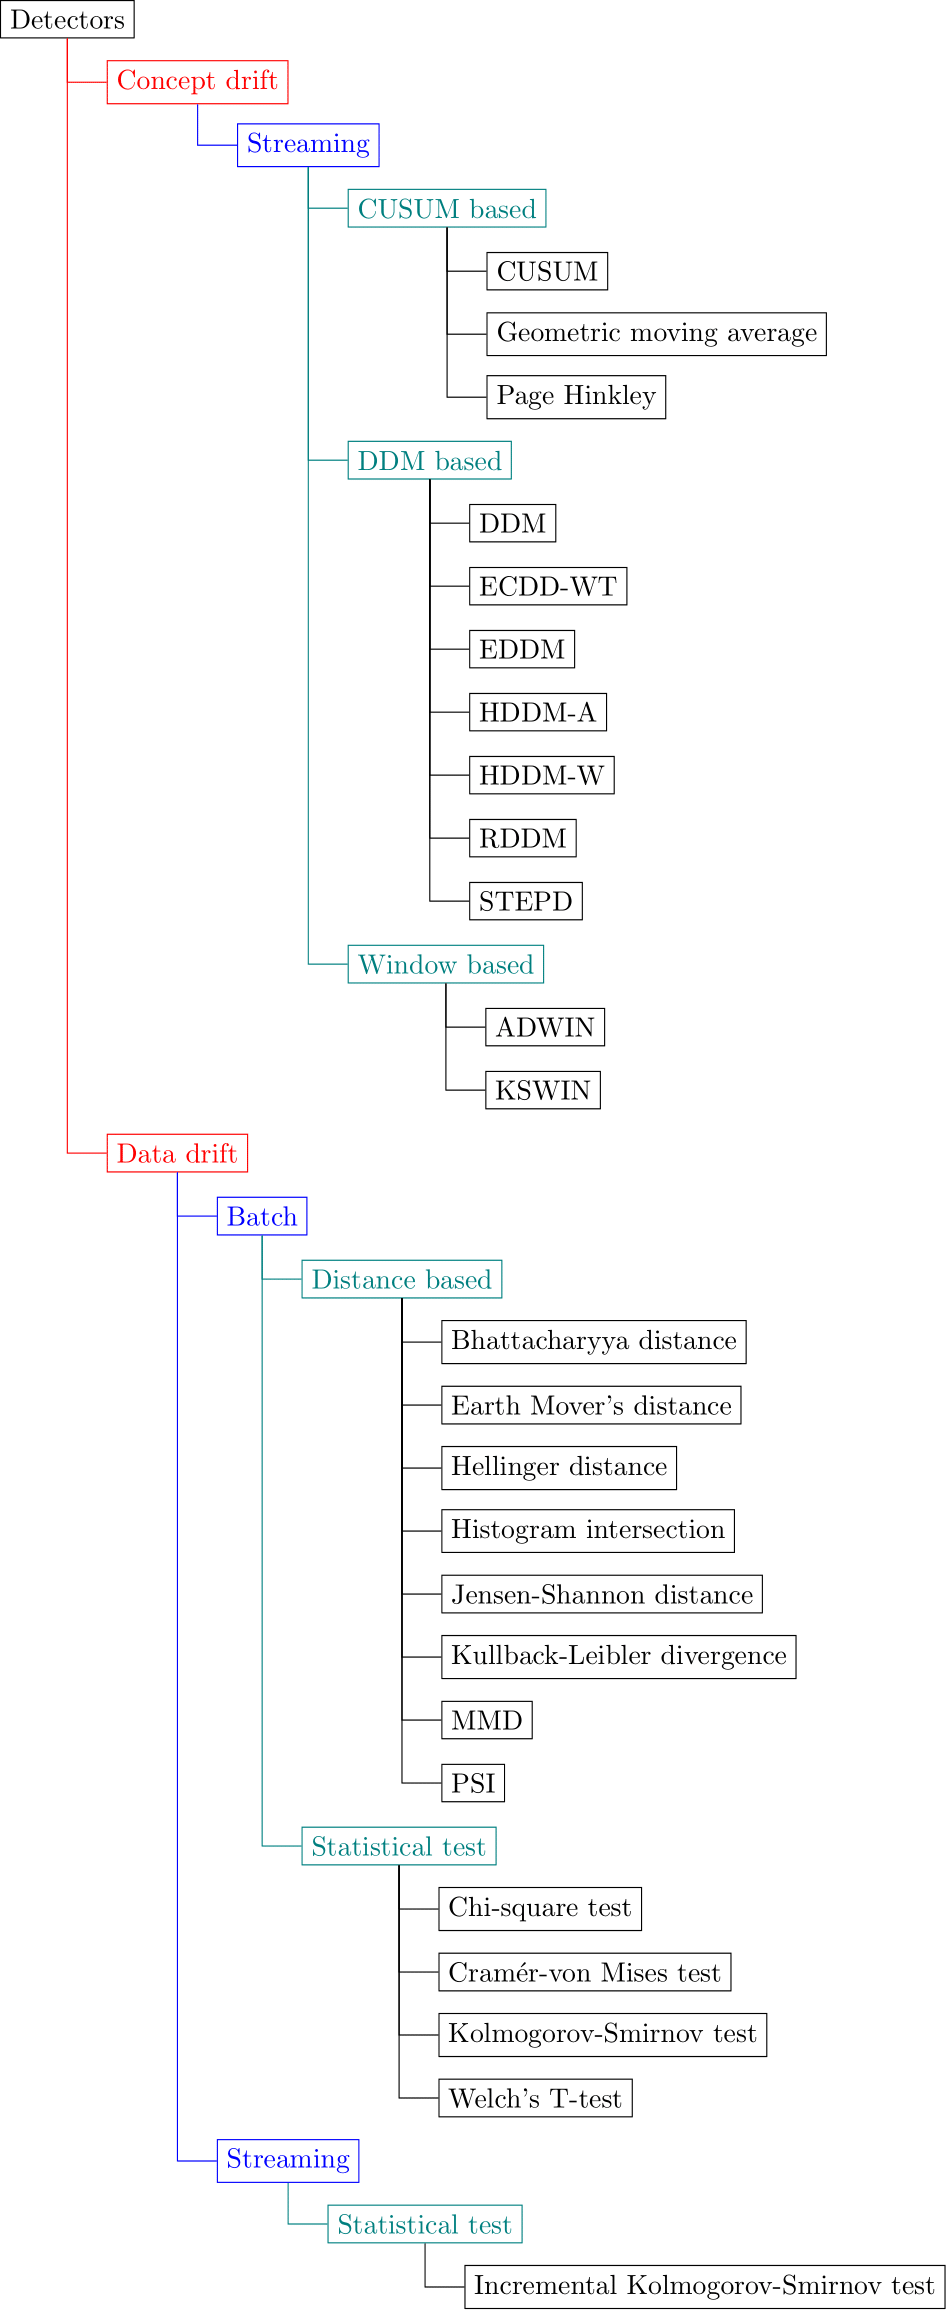
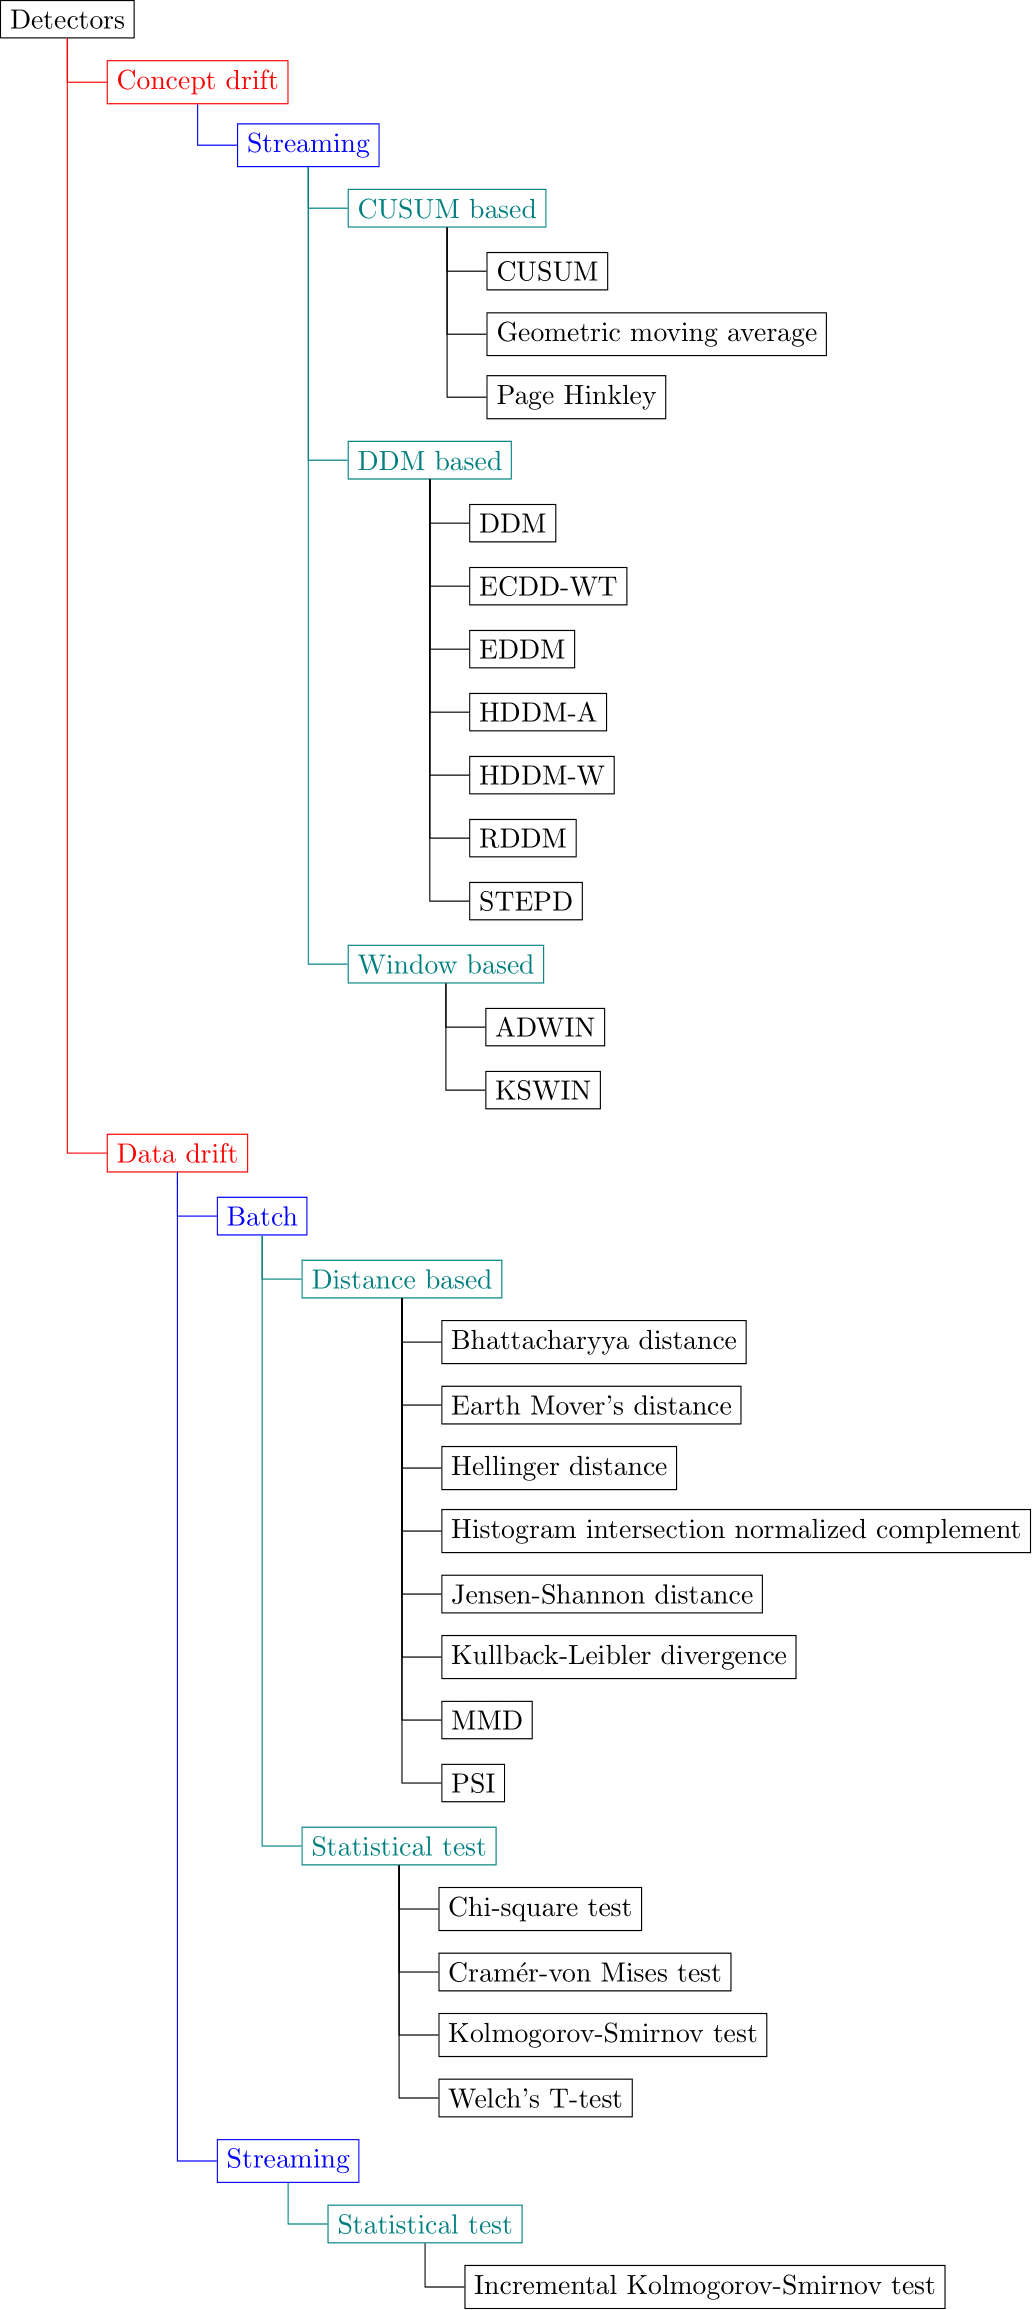
Fix HistogramIntersection to HINormalizedComplement

diff --git a/frouros/detectors/data_drift/batch/distance_based/hi_normalized_complement.py b/frouros/detectors/data_drift/batch/distance_based/hi_normalized_complement.py
@@ -1,4 +1,4 @@
-"""Histogram intersection module."""
+"""HI (Histogram intersection) normalized complement module."""
 
 from typing import List, Optional, Union
 
@@ -10,8 +10,8 @@ from frouros.detectors.data_drift.batch.distance_based.base import (
 )
 
 
-class HistogramIntersection(DistanceBinsBasedBase):
-    """Histogram intersection [swain1991color]_ detector.
+class HINormalizedComplement(DistanceBinsBasedBase):
+    """HI (Histogram intersection) normalized complement [swain1991color]_ detector.
 
     :References:
 
@@ -33,7 +33,7 @@ class HistogramIntersection(DistanceBinsBasedBase):
         :type callbacks: Optional[Union[Callback, List[Callback]]]
         """
         super().__init__(
-            statistical_method=self._histogram_intersection,
+            statistical_method=self._hi_normalized_complement,
             statistical_kwargs={
                 "num_bins": num_bins,
             },
@@ -46,13 +46,13 @@ class HistogramIntersection(DistanceBinsBasedBase):
         X_ref: np.ndarray,  # noqa: N803
         X: np.ndarray,  # noqa: N803
     ) -> float:
-        no_intersection = self._histogram_intersection(
+        intersection_normalized_complement = self._hi_normalized_complement(
             X=X_ref, Y=X, num_bins=self.num_bins
         )
-        return no_intersection
+        return intersection_normalized_complement
 
     @staticmethod
-    def _histogram_intersection(
+    def _hi_normalized_complement(
         X: np.ndarray,  # noqa: N803
         Y: np.ndarray,
         *,
@@ -68,6 +68,6 @@ class HistogramIntersection(DistanceBinsBasedBase):
         X_hist = X_hist / X.shape[0]  # noqa: N806
         Y_hist, _ = np.histogram(Y, bins=num_bins, range=hist_range)  # noqa: N806
         Y_hist = Y_hist / Y.shape[0]  # noqa: N806
-        no_intersection = 1 - np.sum(np.minimum(X_hist, Y_hist))
+        intersection_normalized_complement = 1 - np.sum(np.minimum(X_hist, Y_hist))
 
-        return no_intersection
+        return intersection_normalized_complement

diff --git a/frouros/tests/integration/test_callback.py b/frouros/tests/integration/test_callback.py
@@ -35,7 +35,7 @@ from frouros.detectors.data_drift.batch import (
     CVMTest,
     EMD,
     HellingerDistance,
-    HistogramIntersection,
+    HINormalizedComplement,
     JS,
     KL,
     KSTest,
@@ -52,7 +52,7 @@ from frouros.detectors.data_drift.batch.base import DataDriftBatchBase
         (BhattacharyyaDistance, 0.55516059, 0.0),
         (EMD, 3.85346006, 0.0),
         (HellingerDistance, 0.74509099, 0.0),
-        (HistogramIntersection, 0.78, 0.0),
+        (HINormalizedComplement, 0.78, 0.0),
         (JS, 0.67010107, 0.0),
         (KL, np.inf, 0.0),
         (MMD, 0.71529206, 0.0),

diff --git a/frouros/detectors/data_drift/batch/distance_based/__init__.py b/frouros/detectors/data_drift/batch/distance_based/__init__.py
@@ -3,7 +3,7 @@
 from .bhattacharyya_distance import BhattacharyyaDistance
 from .emd import EMD
 from .hellinger_distance import HellingerDistance
-from .histogram_intersection import HistogramIntersection
+from .hi_normalized_complement import HINormalizedComplement
 from .js import JS
 from .kl import KL
 from .psi import PSI
@@ -13,7 +13,7 @@ __all__ = [
     "BhattacharyyaDistance",
     "EMD",
     "HellingerDistance",
-    "HistogramIntersection",
+    "HINormalizedComplement",
     "JS",
     "KL",
     "PSI",

diff --git a/frouros/tests/integration/test_data_drift.py b/frouros/tests/integration/test_data_drift.py
@@ -10,7 +10,7 @@ from frouros.detectors.data_drift.batch import (
     BhattacharyyaDistance,
     EMD,
     HellingerDistance,
-    HistogramIntersection,
+    HINormalizedComplement,
     PSI,
     JS,
     KL,
@@ -61,7 +61,7 @@ def test_batch_distance_based_categorical(
         (EMD(), 3.85346006),
         (JS(), 0.67010107),
         (KL(), np.inf),
-        (HistogramIntersection(), 0.78),
+        (HINormalizedComplement(), 0.78),
     ],
 )
 def test_batch_distance_based_univariate(

diff --git a/frouros/detectors/data_drift/batch/__init__.py b/frouros/detectors/data_drift/batch/__init__.py
@@ -4,7 +4,7 @@ from .distance_based import (
     BhattacharyyaDistance,
     EMD,
     HellingerDistance,
-    HistogramIntersection,
+    HINormalizedComplement,
     JS,
     KL,
     PSI,
@@ -23,7 +23,7 @@ __all__ = [
     "CVMTest",
     "EMD",
     "HellingerDistance",
-    "HistogramIntersection",
+    "HINormalizedComplement",
     "JS",
     "KL",
     "KSTest",

diff --git a/frouros/detectors/data_drift/__init__.py b/frouros/detectors/data_drift/__init__.py
@@ -6,7 +6,7 @@ from .batch import (
     CVMTest,
     EMD,
     HellingerDistance,
-    HistogramIntersection,
+    HINormalizedComplement,
     JS,
     KL,
     KSTest,
@@ -23,7 +23,7 @@ __all__ = [
     "CVMTest",
     "EMD",
     "HellingerDistance",
-    "HistogramIntersection",
+    "HINormalizedComplement",
     "IncrementalKSTest",
     "JS",
     "KL",

diff --git a/docs/source/api_reference/detectors.md b/docs/source/api_reference/detectors.md
@@ -140,7 +140,7 @@ The {mod}`frouros.detectors` module contains drift detection algorithms.
     BhattacharyyaDistance
     EMD
     HellingerDistance
-    HistogramIntersection
+    HINormalizedComplement
     JS
     KL
     MMD
